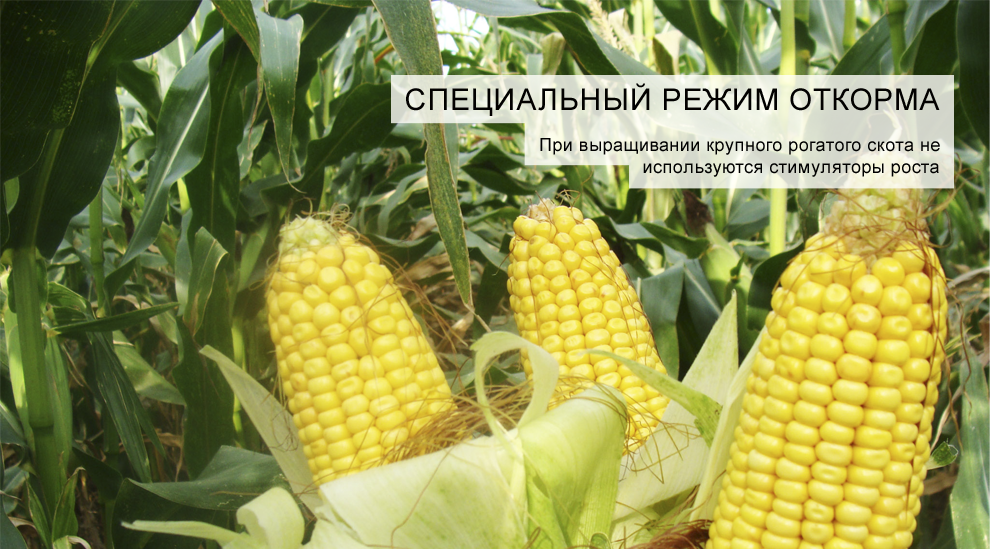
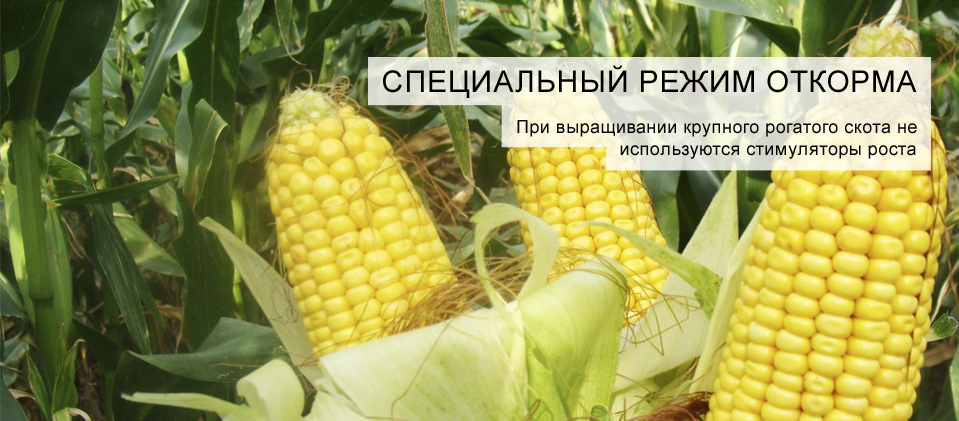
main page

diff --git a/app/assets/stylesheets/welcome.css.scss b/app/assets/stylesheets/welcome.css.scss
@@ -15,7 +15,6 @@ body {
   }
 }
  .slider {
-   width:800px;
    margin:0 auto;
  }
 
@@ -23,7 +22,7 @@ body {
   margin-top:-11px;
   clear:both;
   width:896px;
-  height:432px;
+  height:503px;
   .left {
     min-width:152px;
     background: url("/assets/layout/wood_right.png") no-repeat scroll 0 0 transparent;
@@ -34,7 +33,7 @@ body {
     .inside_block {
       width:863px;
       margin: 0 auto;
-        height: 432px;
+        height: 503px;
       .top_part {
         height: 62px;
         margin-top: 2px;
@@ -84,7 +83,6 @@ body {
       /*  width:862px;
         height:480px; */
         clear: both;
-        width:800px;
         margin: 0 auto;
       }
     }
@@ -258,6 +256,9 @@ body {
             padding-top:10px;
             padding-right:5px;
             font-style: italic;
+          }
+          .ref:hover {
+            text-decoration: none;
           }
         }
         li:first-child {

diff --git a/app/assets/stylesheets/default.css b/app/assets/stylesheets/default.css
@@ -11,14 +11,14 @@ font-size:11px;
 -----------------------------------------------*/
 
 #content {
-width:800px;
+width:865px;
 margin:100px auto 0;
 }
 
 .slider {
 float:left;
-width:800px;
-height:350px;
+width:865px;
+height:420px;
 position:relative;
 padding-bottom:26px;
 background:url(/assets/layout/gfx/bottom_shadow.png) no-repeat bottom center;
@@ -26,8 +26,8 @@ background:url(/assets/layout/gfx/bottom_shadow.png) no-repeat bottom center;
 
 .sliderContent {
 float:left;
-width:800px;
-height:350px;
+width:865px;
+height:420px;
 clear:both;
 position:relative;
 overflow:hidden;
@@ -66,8 +66,8 @@ background-position:-44px -44px;
 
 .sliderContent .item {
 position:absolute;
-width:800px;
-height:350px;
+width:865px;
+height:420px;
 background:#fff;
 }
 
